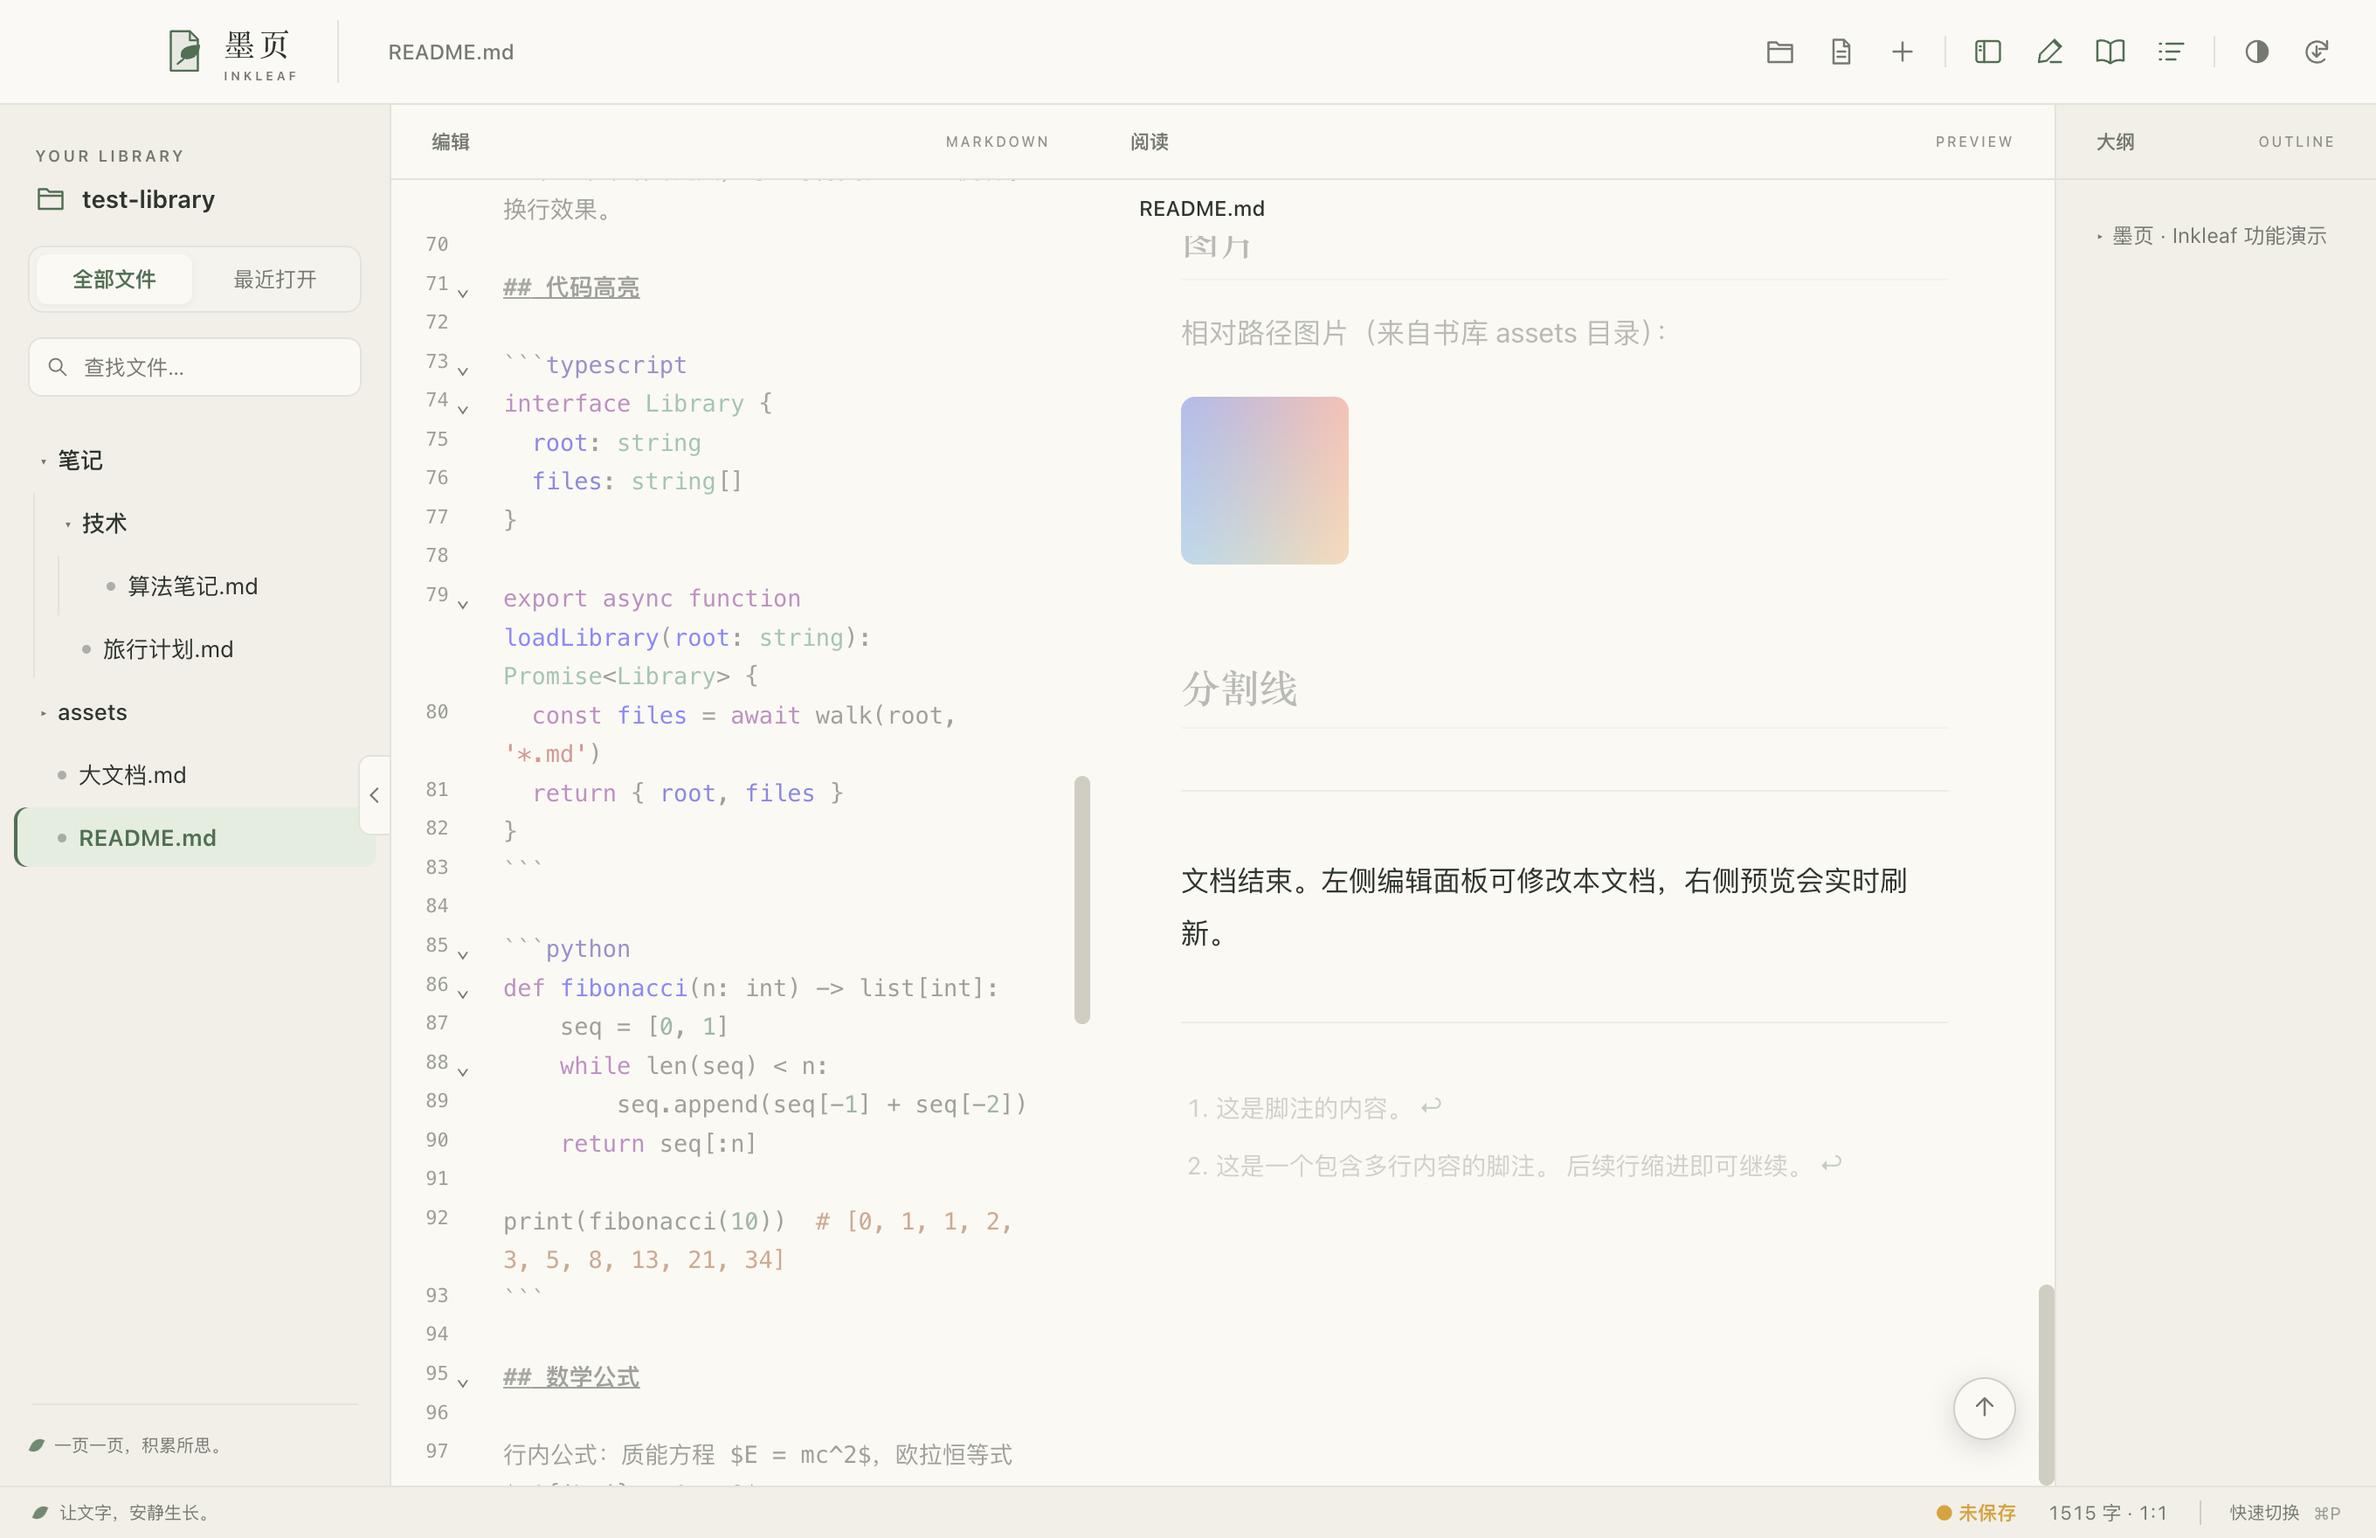
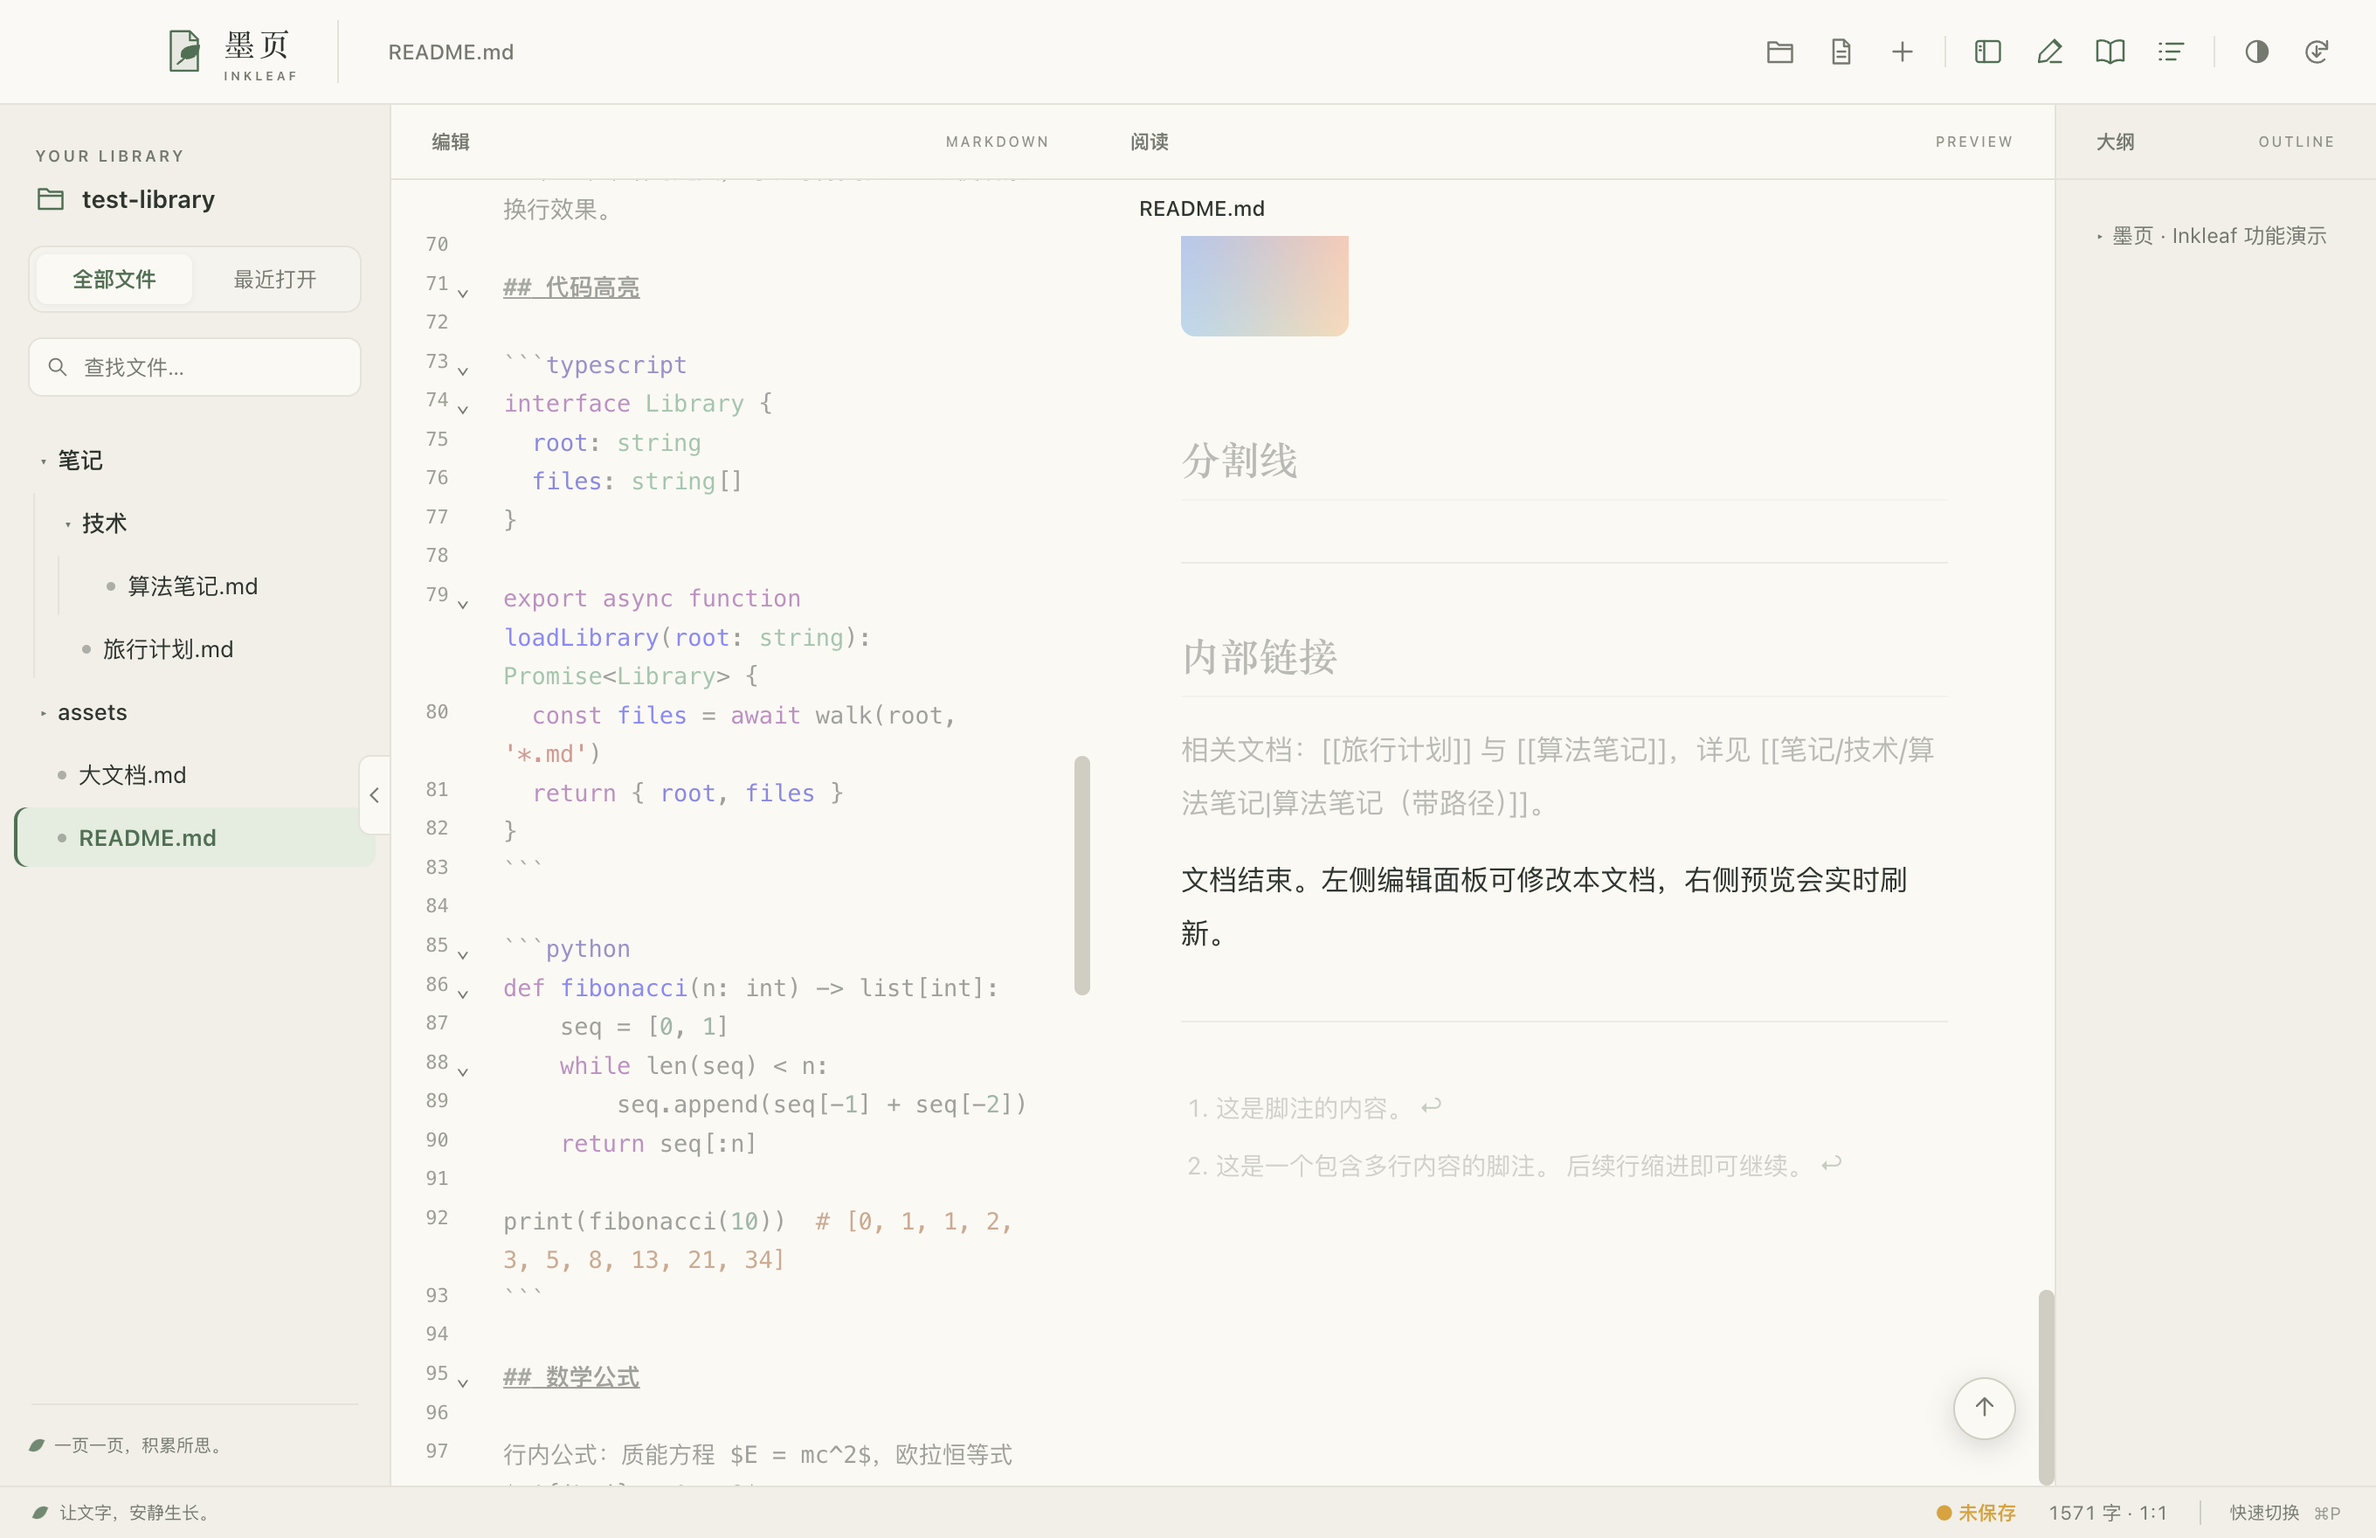
功能(D7)：文档索引服务——知识管理底座（TDD）
- src/main/index-service.ts：标题/标签(frontmatter+正文)/双链出链/frontmatter 索引
- 三 IPC：index:tags 聚合 / index:backlinks 反链 / index:resolve 名称解析
- lib:open 异步构建（持久化 index.json 加速同库重启）；chokidar 事件按文件增量
- RED: index-check 全 undefined FAIL → GREEN: travel/yunnan/budget=true backlinks=1(README) resolve=true OK
- docs/02 P0-2 落地；为标签面板/双链渲染/反链面板备好数据层

diff --git a/src/main/index-service.ts b/src/main/index-service.ts
@@ -1,0 +1,188 @@
+/**
+ * 文档索引服务（docs/02 P0-2 · 知识管理功能的底座）。
+ * 维护书库全量结构化索引：标题 / 标签（frontmatter + 正文）/ 双链出链 / frontmatter。
+ * - 全量构建：lib:open 后异步扫描（不阻塞文件树返回）
+ * - 增量更新：挂接现有 chokidar 事件，按文件粒度重扫
+ * - 持久化：userData/index.json（换库重建，进程内即查即用）
+ */
+import fs from 'node:fs/promises'
+import fsSync from 'node:fs'
+import path from 'node:path'
+import { app } from 'electron'
+import matter from 'gray-matter'
+
+export interface IndexLink {
+  target: string
+  line: number
+}
+
+export interface DocIndexEntry {
+  path: string
+  title: string
+  mtime: number
+  tags: string[]
+  links: IndexLink[]
+  frontmatter: Record<string, unknown>
+}
+
+export interface TagCount {
+  tag: string
+  count: number
+}
+
+export interface Backlink {
+  path: string
+  line: number
+}
+
+const entries = new Map<string, DocIndexEntry>()
+let indexedRoot: string | null = null
+let persistTimer: NodeJS.Timeout | null = null
+
+const WIKILINK_RE = /\[\[([^\]|#]+?)(?:#[^\]|]*)?(?:\|[^\]]*)?\]\]/g
+const BODY_TAG_RE = /(?:^|[\s(])#([\p{L}\p{N}][\p{L}\p{N}_/-]*)/gu
+
+const indexPath = () => path.join(app.getPath('userData'), 'index.json')
+const baseName = (p: string) => path.basename(p).replace(/\.(md|markdown|mdx)$/i, '')
+
+function parseDoc(p: string, raw: string): DocIndexEntry {
+  let data: Record<string, unknown> = {}
+  let content = raw
+  try {
+    const parsed = matter(raw)
+    data = (parsed.data ?? {}) as Record<string, unknown>
+    content = parsed.content
+  } catch {
+    /* malformed frontmatter — index the raw content */
+  }
+
+  const tags = new Set<string>()
+  const fmTags = data.tags
+  if (typeof fmTags === 'string') {
+    fmTags.split(/[，,\s]+/).filter(Boolean).forEach((t) => tags.add(t))
+  } else if (Array.isArray(fmTags)) {
+    fmTags.forEach((t) => {
+      if (typeof t === 'string' && t.trim()) tags.add(t.trim())
+    })
+  }
+  for (const m of content.matchAll(BODY_TAG_RE)) tags.add(m[1])
+
+  const links: IndexLink[] = []
+  content.split('\n').forEach((line, i) => {
+    for (const m of line.matchAll(WIKILINK_RE)) links.push({ target: m[1].trim(), line: i + 1 })
+  })
+
+  const h1 = /^#\s+(.+)$/m.exec(content)?.[1]?.trim()
+  return {
+    path: p,
+    title: h1 || baseName(p),
+    mtime: Date.now(),
+    tags: [...tags],
+    links,
+    frontmatter: data,
+  }
+}
+
+function persistSoon() {
+  if (persistTimer) clearTimeout(persistTimer)
+  persistTimer = setTimeout(() => {
+    persistTimer = null
+    const payload = JSON.stringify({ root: indexedRoot, entries: [...entries.values()] })
+    fs.mkdir(path.dirname(indexPath()), { recursive: true })
+      .then(() => fs.writeFile(indexPath(), payload, 'utf8'))
+      .catch(() => {})
+  }, 800)
+}
+
+export async function buildIndex(root: string, files: string[]): Promise<void> {
+  if (indexedRoot === root && entries.size) return // already indexed in this session
+  entries.clear()
+  indexedRoot = root
+  for (const f of files) {
+    try {
+      entries.set(f, parseDoc(f, await fs.readFile(f, 'utf8')))
+    } catch {
+      /* unreadable — skip */
+    }
+  }
+  persistSoon()
+}
+
+export function clearIndex(): void {
+  entries.clear()
+  indexedRoot = null
+}
+
+export async function indexFile(p: string): Promise<void> {
+  if (!/\.(md|markdown|mdx)$/i.test(p)) return
+  try {
+    entries.set(p, parseDoc(p, await fs.readFile(p, 'utf8')))
+  } catch {
+    entries.delete(p)
+  }
+  persistSoon()
+}
+
+export function unindexPath(p: string): void {
+  entries.delete(p)
+  for (const key of entries.keys()) {
+    if (key.startsWith(p + '/')) entries.delete(key)
+  }
+  persistSoon()
+}
+
+/** 名称（标题或文件名，可带相对路径）→ 文档绝对路径；歧义时按索引顺序取首个 */
+export function resolveName(name: string): string | null {
+  const n = name.trim()
+  if (!n) return null
+  let byTitle: string | null = null
+  for (const e of entries.values()) {
+    const base = baseName(e.path)
+    if (base === n || n.endsWith('/' + base) || e.path.endsWith(n.replace(/^\//, '') + '.md')) {
+      return e.path
+    }
+    if (e.title === n && !byTitle) byTitle = e.path
+  }
+  return byTitle
+}
+
+export function queryTags(): TagCount[] {
+  const counts = new Map<string, number>()
+  for (const e of entries.values()) {
+    for (const t of e.tags) counts.set(t, (counts.get(t) ?? 0) + 1)
+  }
+  return [...counts.entries()]
+    .map(([tag, count]) => ({ tag, count }))
+    .sort((a, b) => b.count - a.count || a.tag.localeCompare(b.tag, 'zh-Hans-CN'))
+}
+
+export function queryBacklinks(name: string): Backlink[] {
+  const target = resolveName(name)
+  if (!target) return []
+  const out: Backlink[] = []
+  for (const e of entries.values()) {
+    for (const l of e.links) {
+      if (resolveName(l.target) === target) out.push({ path: e.path, line: l.line })
+    }
+  }
+  return out
+}
+
+/** 启动时加载上次索引（换库会重建，仅为加速同库重启） */
+export async function loadPersistedIndex(root: string): Promise<boolean> {
+  try {
+    const raw = JSON.parse(await fs.readFile(indexPath(), 'utf8')) as {
+      root: string
+      entries: DocIndexEntry[]
+    }
+    if (raw.root !== root) return false
+    entries.clear()
+    for (const e of raw.entries) {
+      if (fsSync.existsSync(e.path)) entries.set(e.path, e)
+    }
+    indexedRoot = root
+    return entries.size > 0
+  } catch {
+    return false
+  }
+}

diff --git a/src/main/ipc.ts b/src/main/ipc.ts
@@ -3,7 +3,8 @@ import fs from 'node:fs/promises'
 import fsSync from 'node:fs'
 import path from 'node:path'
 import chokidar from 'chokidar'
-import { CH, TreeNode, TextHit, ConfirmOptions, FsEvent } from '../shared/ipc'
+import { CH, TreeNode, TextHit, ConfirmOptions, FsEvent, TagCount, Backlink } from '../shared/ipc'
+import * as indexService from './index-service'
 
 export type { TreeNode } from '../shared/ipc'
 
@@ -97,6 +98,8 @@ async function startWatch(root: string) {
   })
   const emit = (event: string) => (p: string) => {
     fileListCache = null
+    if (event === 'unlink' || event === 'unlinkDir') indexService.unindexPath(p)
+    else void indexService.indexFile(p)
     broadcast(CH.fsEvent, { event, path: p })
   }
   watcher.on('add', emit('add')).on('unlink', emit('unlink')).on('change', emit('change'))
@@ -145,6 +148,11 @@ export function registerIpc() {
     // tree first so the UI fills fast; the watcher can warm up afterwards
     const tree = await readTree(root)
     void startWatch(root).catch(() => {})
+    void (async () => {
+      if (!(await indexService.loadPersistedIndex(root))) {
+        await indexService.buildIndex(root, await listFiles())
+      }
+    })()
     await patchSession({ libraryRoot: root })
     return tree
   })
@@ -204,6 +212,7 @@ export function registerIpc() {
   ipcMain.handle(CH.libClose, async () => {
     await stopWatch()
     libraryRoot = null
+    indexService.clearIndex()
     await patchSession({ libraryRoot: null })
   })
 
@@ -315,6 +324,10 @@ export function registerIpc() {
     if (process.env.MDR_TEST) return
     shell.showItemInFolder(p)
   })
+
+  ipcMain.handle(CH.indexTags, (): TagCount[] => indexService.queryTags())
+  ipcMain.handle(CH.indexBacklinks, (_e, name: string): Backlink[] => indexService.queryBacklinks(name))
+  ipcMain.handle(CH.indexResolve, (_e, name: string): string | null => indexService.resolveName(name))
 
   ipcMain.handle(CH.sessionGet, () => readSession())
   ipcMain.handle(CH.sessionSet, (_e, s: Record<string, unknown>) => writeSession(s))

diff --git a/src/main/index.ts b/src/main/index.ts
@@ -545,6 +545,30 @@ async function createWindow() {
           })()
         `)
         console.log(`[focus-check] ${focusCheck}`)
+        // document index check: tags / wikilinks / backlinks
+        const indexCheck = await win.webContents.executeJavaScript(`
+          (async () => {
+            try {
+              const tags = await window.mdr.indexTags();
+              const backlinks = await window.mdr.indexBacklinks('云南七日游');
+              const resolve = await window.mdr.indexResolve('算法笔记');
+              const tagNames = (tags || []).map(t => t.tag);
+              return JSON.stringify({
+                hasTravel: tagNames.includes('旅行'),
+                hasYunnan: tagNames.includes('云南'),
+                hasBudget: tagNames.includes('预算'),
+                backlinks: (backlinks || []).length,
+                backlinkFrom: (backlinks || [])[0]?.path?.split('/').pop() ?? null,
+                resolveOk: typeof resolve === 'string' && resolve.endsWith('算法笔记.md'),
+              });
+            } catch (err) {
+              return JSON.stringify({ error: String(err) });
+            }
+          })()
+        `)
+        const ic = JSON.parse(indexCheck)
+        const icOk = ic.hasTravel && ic.hasYunnan && ic.hasBudget && ic.backlinks >= 1 && ic.resolveOk
+        console.log(`[index-check] travel=${ic.hasTravel} yunnan=${ic.hasYunnan} budget=${ic.hasBudget} backlinks=${ic.backlinks}(${ic.backlinkFrom}) resolve=${ic.resolveOk} ${icOk ? 'OK' : 'FAIL'}`)
         const focusShot = await win.webContents.capturePage()
         fs.writeFileSync(path.join(dir, `round${round}-focus.png`), focusShot.toPNG())
         await win.webContents.executeJavaScript(`

diff --git a/src/preload/index.ts b/src/preload/index.ts
@@ -1,6 +1,6 @@
 import { contextBridge, ipcRenderer, webUtils } from 'electron'
 import type { UpdateState } from '../shared/updates'
-import { CH, type TreeNode, type TextHit, type OpResult, type ConfirmOptions, type FsEvent } from '../shared/ipc'
+import { CH, type TreeNode, type TextHit, type OpResult, type ConfirmOptions, type FsEvent, type TagCount, type Backlink } from '../shared/ipc'
 
 const api = {
   platform: process.platform,
@@ -27,6 +27,9 @@ const api = {
   searchText: (query: string): Promise<TextHit[]> =>
     ipcRenderer.invoke(CH.searchText, query),
   closeLibrary: (): Promise<void> => ipcRenderer.invoke(CH.libClose),
+  indexTags: (): Promise<TagCount[]> => ipcRenderer.invoke(CH.indexTags),
+  indexBacklinks: (name: string): Promise<Backlink[]> => ipcRenderer.invoke(CH.indexBacklinks, name),
+  indexResolve: (name: string): Promise<string | null> => ipcRenderer.invoke(CH.indexResolve, name),
   readFile: (p: string): Promise<string> => ipcRenderer.invoke(CH.fsRead, p),
   writeFile: (p: string, content: string): Promise<void> => ipcRenderer.invoke(CH.fsWrite, p, content),
   writeBinary: (p: string, base64: string): Promise<void> => ipcRenderer.invoke(CH.fsWriteBinary, p, base64),

diff --git a/src/shared/ipc.ts b/src/shared/ipc.ts
@@ -35,6 +35,16 @@ export interface FsEvent {
   path: string
 }
 
+export interface TagCount {
+  tag: string
+  count: number
+}
+
+export interface Backlink {
+  path: string
+  line: number
+}
+
 // ---------- 通道名 ----------
 
 export const CH = {
@@ -48,6 +58,9 @@ export const CH = {
   libClose: 'lib:close',
   libTree: 'lib:tree',
   libListFiles: 'lib:listFiles',
+  indexTags: 'index:tags',
+  indexBacklinks: 'index:backlinks',
+  indexResolve: 'index:resolve',
   searchText: 'search:text',
   fsRead: 'fs:read',
   fsWrite: 'fs:write',

diff --git a/test-library/README.md b/test-library/README.md
@@ -139,4 +139,8 @@ sequenceDiagram
 
 ---
 
+## 内部链接
+
+相关文档：[[旅行计划]] 与 [[算法笔记]]，详见 [[笔记/技术/算法笔记|算法笔记（带路径）]]。
+
 文档结束。左侧编辑面板可修改本文档，右侧预览会实时刷新。

diff --git a/test-library/笔记/旅行计划.md b/test-library/笔记/旅行计划.md
@@ -1,4 +1,12 @@
+---
+tags:
+  - 旅行
+  - 云南
+---
+
 # 云南七日游
+
+计划标签：#行程 #预算
 
 ## 行程概览
 
